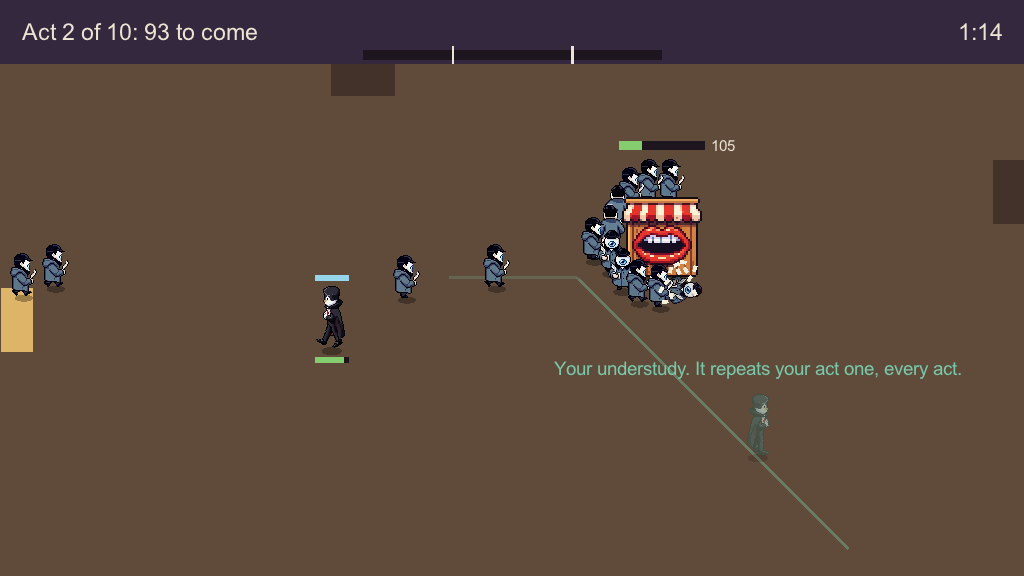
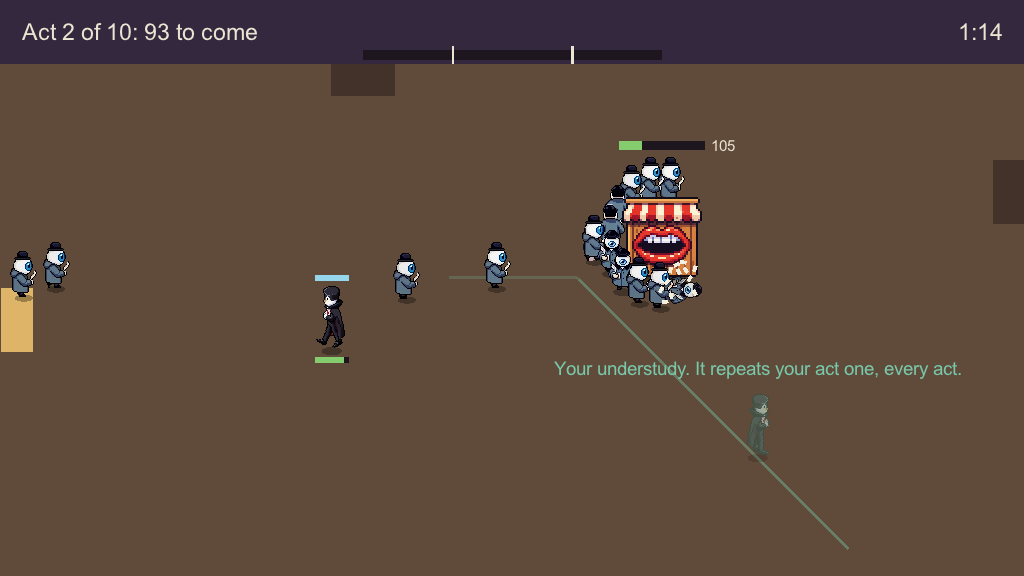
T07c: the review: a stunned critic washed pale and not tinted, the critic's side view an eye too, the shapes' last constants gone, a figure with one view kept once and not mirrored, the measure of the whole scale's ceiling said right, and the plan and the manifests on what went
Claude-Session: https://claude.ai/code/session_01V4qXWgB4bHFXePzLiSUbYT

diff --git a/src/Understudies.Game/UnderstudiesGame.cs b/src/Understudies.Game/UnderstudiesGame.cs
@@ -17,10 +17,9 @@ internal sealed partial class UnderstudiesGame : Microsoft.Xna.Framework.Game
     private const int WindowWidth = 1024;
     private const int WindowHeight = 576;
     private const float MagicianHeight = 3f;
-    private const float CriticBodyHeight = 1.4f;
-    private const float CriticHeadSize = 0.6f;
-    private const float StagehandBodyHeight = 0.9f;
-    private const float StagehandHeadSize = 0.5f;
+
+    // The box office's bar is this far above its roof: clear of the critics that stand behind it.
+    private const float BoxOfficeBarLift = 2f;
 
     // The sprites are pixel art drawn to one measure: the magician's 64 pixels are its three units.
     private const float SpritePixelsPerUnit = 64f / MagicianHeight;
@@ -86,7 +85,6 @@ internal sealed partial class UnderstudiesGame : Microsoft.Xna.Framework.Game
     private static readonly Color Floor = new(96, 74, 58);
     private static readonly Color OpenDoor = new(222, 180, 104);
     private static readonly Color ShutDoor = new(66, 50, 42);
-    private static readonly Color BoxOffice = new(150, 44, 52);
     private static readonly Color HitPoints = new(132, 204, 110);
     private static readonly Color HitPointsLost = new(30, 22, 30);
     private static readonly Color Magician = new(250, 226, 120);
@@ -125,7 +123,7 @@ internal sealed partial class UnderstudiesGame : Microsoft.Xna.Framework.Game
 
     private readonly string _spritesFolder;
 
-    // By Figure and then by Facing.
+    // By Figure and then by Facing; a figure with one view has that one alone.
     private readonly Sheet[][] _sheets = new Sheet[4][];
 
     // The view's own time, in seconds: what a walk's frames are counted by.
@@ -189,10 +187,8 @@ internal sealed partial class UnderstudiesGame : Microsoft.Xna.Framework.Game
             [ReadSheet("magician-down.png", 3), ReadSheet("magician-up.png", 3), ReadSheet("magician-side.png", 3)];
         _sheets[(int)Figure.Critic] =
             [ReadSheet("critic-down.png", 3), ReadSheet("critic-up.png", 3), ReadSheet("critic-side.png", 3)];
-        Sheet stagehand = ReadSheet("stagehand-down.png", 3);
-        _sheets[(int)Figure.Stagehand] = [stagehand, stagehand, stagehand];
-        Sheet boxOffice = ReadSheet("box-office.png", 1, block: 6f);
-        _sheets[(int)Figure.BoxOffice] = [boxOffice, boxOffice, boxOffice];
+        _sheets[(int)Figure.Stagehand] = [ReadSheet("stagehand-down.png", 3)];
+        _sheets[(int)Figure.BoxOffice] = [ReadSheet("box-office.png", 1, block: 6f)];
 
         if (FontFiles.FirstOrDefault(File.Exists) is { } fontFile)
         {
@@ -620,7 +616,7 @@ internal sealed partial class UnderstudiesGame : Microsoft.Xna.Framework.Game
 
         var bar = new Vector2(Tuning.BoxOfficeSize, 0.4f);
         Vector2 barTopLeft = boxOfficeFeet
-            - new Vector2(bar.X / 2f, Tuning.BoxOfficeSize + CriticBodyHeight + CriticHeadSize + bar.Y);
+            - new Vector2(bar.X / 2f, Tuning.BoxOfficeSize + BoxOfficeBarLift + bar.Y);
         FillBar(barTopLeft, bar, _simulation.BoxOfficeHitPoints / Tuning.BoxOfficeHitPoints, HitPoints);
 
         // The magician has two small bars, told apart by place and by colour. Its hit points are under its feet, in
@@ -830,7 +826,7 @@ internal sealed partial class UnderstudiesGame : Microsoft.Xna.Framework.Game
     /// its own. A figure is a frame of a sprite sheet, drawn at a whole number of screen pixels to a sprite pixel
     /// and from a whole screen pixel, with a shadow on the floor under it while it stands.
     /// </summary>
-    /// <param name="pale">A stunned critic: it has gone pale all over (a tint).</param>
+    /// <param name="pale">A stunned critic: it has gone pale all over.</param>
     /// <param name="white">The flash of a figure that was hurt a moment ago, from 0 to 1: a white copy of the
     /// sprite drawn over it that thick, since a tint can only darken.</param>
     /// <param name="fallen">Lying flat where <paramref name="feet"/> is, and not standing on it.</param>
@@ -855,9 +851,11 @@ internal sealed partial class UnderstudiesGame : Microsoft.Xna.Framework.Game
         // Sideways when it goes more across than up or down. The side view faces right and is mirrored for left.
         bool sideways = MathF.Abs(toward.X) > MathF.Abs(toward.Y);
         Facing facing = sideways ? Facing.Side : toward.Y < 0f ? Facing.Up : Facing.Down;
-        Sheet sheet = _sheets[(int)figure][(int)(fallen ? Facing.Down : facing)];
+        Sheet[] views = _sheets[(int)figure];
+        Sheet sheet = views[fallen ? 0 : Math.Min((int)facing, views.Length - 1)];
+        bool mirrored = sideways && toward.X < 0f && !fallen && views.Length > 1;
         int frame = walking && !fallen && _simulation.Phase == Phase.Act
-            ? (int)(((_walkClock * WalkFramesPerSecond) + beat) % sheet.Frames)
+            ? (int)(((_walkClock * WalkFramesPerSecond) + beat) % (sheet.Columns * sheet.Columns))
             : 0;
         var source = new Rectangle(
             sheet.First.X + (frame % sheet.Columns * sheet.First.Width),
@@ -866,8 +864,9 @@ internal sealed partial class UnderstudiesGame : Microsoft.Xna.Framework.Game
             sheet.First.Height);
 
         // A sprite pixel is a whole number of screen pixels, the nearest to its measure that the window gives.
-        // ponytail: a figure is so up to a fifth smaller or larger than its units say, with the window's size. A
-        // stage drawn to a target of its own at the sprites' measure and scaled whole would end that.
+        // ponytail: a figure is so up to a third smaller or larger than its units say, with the window's size, and
+        // larger still in a window narrower than 1024. A stage drawn to a target of its own at the sprites' measure
+        // and scaled whole would end that.
         float pixel = MathF.Max(1f, MathF.Round(_scale / SpritePixelsPerUnit)) / _scale;
         float unit = pixel / sheet.Block;
         float width = source.Width * unit;
@@ -889,15 +888,19 @@ internal sealed partial class UnderstudiesGame : Microsoft.Xna.Framework.Game
                 fallen ? MathF.PI / 2f : 0f,
                 new Microsoft.Xna.Framework.Vector2(source.Width / 2f, fallen ? source.Height / 2f : source.Height),
                 unit,
-                sideways && toward.X < 0f && !fallen ? SpriteEffects.FlipHorizontally : SpriteEffects.None,
+                mirrored ? SpriteEffects.FlipHorizontally : SpriteEffects.None,
                 depth);
 
-        Copy(sheet.Image, (pale ? CriticStunnedBody : Color.White) * opacity, Depth(feet));
+        Copy(sheet.Image, Color.White * opacity, Depth(feet));
 
         // A sorted batch keeps no order between two textures at one depth: what is drawn over a figure stands a
-        // hair in front of it.
+        // hair in front of it. ponytail: a neighbour whose feet are within that hair below comes between a figure
+        // and its wash for a frame; a wash made in a shader would be the figure's own.
         float over = MathF.Min(1f, Depth(feet) + 0.0001f);
-        if (tint is { } wash)
+
+        // A tint can only darken a sprite, so an understudy's colour and a stunned critic's pallor are washed over
+        // it as the flash is.
+        if ((pale ? CriticStunnedBody : tint) is { } wash)
         {
             Copy(sheet.White, wash * (0.5f * opacity), over);
         }
@@ -943,7 +946,7 @@ internal sealed partial class UnderstudiesGame : Microsoft.Xna.Framework.Game
         Rectangle first = columns == 1
             ? new Rectangle(left, top, right - left + 1, bottom - top + 1)
             : new Rectangle(0, 0, image.Width / columns, image.Height / columns);
-        return new Sheet(image, white, first, columns, columns * columns, block);
+        return new Sheet(image, white, first, columns, block);
     }
 
     /// <summary>
@@ -996,7 +999,8 @@ internal sealed partial class UnderstudiesGame : Microsoft.Xna.Framework.Game
 
     /// <param name="First">The first frame; the others follow it across and then down.</param>
     /// <param name="Block">How many of the file's pixels are one sprite pixel.</param>
-    private sealed record Sheet(Texture2D Image, Texture2D White, Rectangle First, int Columns, int Frames, float Block);
+    /// <param name="Columns">How many frames a row has; there are as many rows.</param>
+    private sealed record Sheet(Texture2D Image, Texture2D White, Rectangle First, int Columns, float Block);
 
     /// <summary>What <see cref="DrawFigure"/> can draw.</summary>
     private enum Figure

diff --git a/src/Understudies.Game/Juice.cs b/src/Understudies.Game/Juice.cs
@@ -15,8 +15,8 @@ namespace Understudies.Game;
 internal sealed class Juice(Random random)
 {
     // Every number of the juice is here, to be turned by hand: none is a rule, so none is in tuning.json. Times are
-    // in seconds and lengths in world units (a critic is one unit wide, and a unit is some 27 pixels of a window
-    // 1280 wide).
+    // in seconds and lengths in world units (a critic is one unit wide, and a unit is some 21 pixels of a window
+    // 1024 wide).
 
     // A figure that was hurt is drawn white for FlashTime, and is not made to flash again for FlashRest after
     // that. A crowd deals many blows a second: what it beats blinks, under three times a second, and does not

diff --git a/docs/plan-prototype.md b/docs/plan-prototype.md
@@ -125,10 +125,10 @@ The game gets the smallest way to draw a figure from an image file: `Texture2D.F
 - One captured frame per tool and one in shapes, all of the same ticks; the pull request shows them side by side and says how many generations each tool took.
 - If only one tool is connected the spike still runs, and its pull request says plainly that nothing new was tried.
 - The owner picks the tool and the look. Nothing more is generated before the pick.
-- **The pick (2026-10-08): ludo.ai, pixel art** (decision 25). The first round, paper cut-outs, the owner found default-looking; of the five looks of the second round (`art/ludo/styles/`, frames in `art/frames/styles/`) the owner liked the pixel art best. 29 of the thirty generations were used. The picked pictures are about 64 sprite pixels a figure (some 18 to a unit, so the ten to a unit above does not hold) and the spike draws them smoothed: T07c settles the scale and draws them unsmoothed at a whole scale.
+- **The pick (2026-10-08): ludo.ai, pixel art** (decision 25). The first round, paper cut-outs, the owner found default-looking; of the five looks of the second round (their pictures and frames went with T07c, the picked look's too, since its sprites replaced it; `art/ludo/styles/manifest.json` is the record) the owner liked the pixel art best. 29 of the thirty generations were used. The picked pictures are about 64 sprite pixels a figure (some 18 to a unit, so the ten to a unit above does not hold) and the spike draws them smoothed: T07c settles the scale and draws them unsmoothed at a whole scale.
 
 **T07c Sprites.** *After the pick.*
-*Changed with the pick (decision 25), agreed with the owner on 2026-10-08:* the magician and the critic get a walk cycle from the tool in four directions, in place of the mirroring and the bob below where a cycle is there; everything else below stands. What goes is the first round's pictures (`art/ludo/*.png`), the four looks not picked and `failed/`, since no second tool was tried. At most forty pictures and ten animations, and fewer where fewer will do. The recipe in `art/prompt-guide.md` names no artist.
+*Changed with the pick (decision 25), agreed with the owner on 2026-10-08:* the magician and the critic get a walk cycle from the tool in four directions, in place of the mirroring and the bob below where a cycle is there; everything else below stands. What goes is the first round's pictures (`art/ludo/*.png`) and the second round's, the picked look's too once its sprites are made, with the spike's frames; the two manifests stay. At most forty pictures and ten animations, and fewer where fewer will do. The recipe in `art/prompt-guide.md` names no artist.
 The picked tool's recipe is written down in `art/prompt-guide.md`, so that later figures match, and makes a sprite for everything that stands on the stage when this ticket is built: the magician, the critic, the box office, and whatever later tickets have added by then. The other tool's folder and the `--art` argument go: the game draws sprites. A figure faces the way it goes (mirrored), bobs as it walks and has a shadow on the floor under its feet; there is no walk cycle. What a tint said before, a tint still says (a stunned critic, the magician in the moment nothing hurts), and the flash of T08 still works: a white copy of the sprite, since a tint can only darken.
 - A captured frame shows it: the magician is told from a critic at a glance, and one critic from the next in a crowd.
 - No test.
